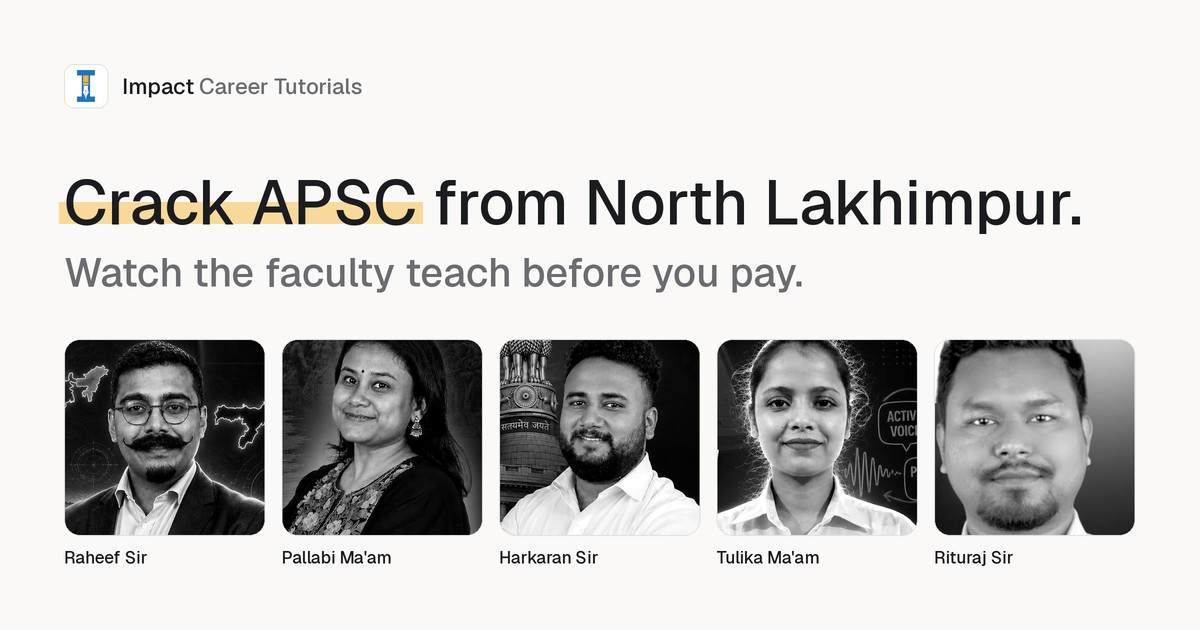
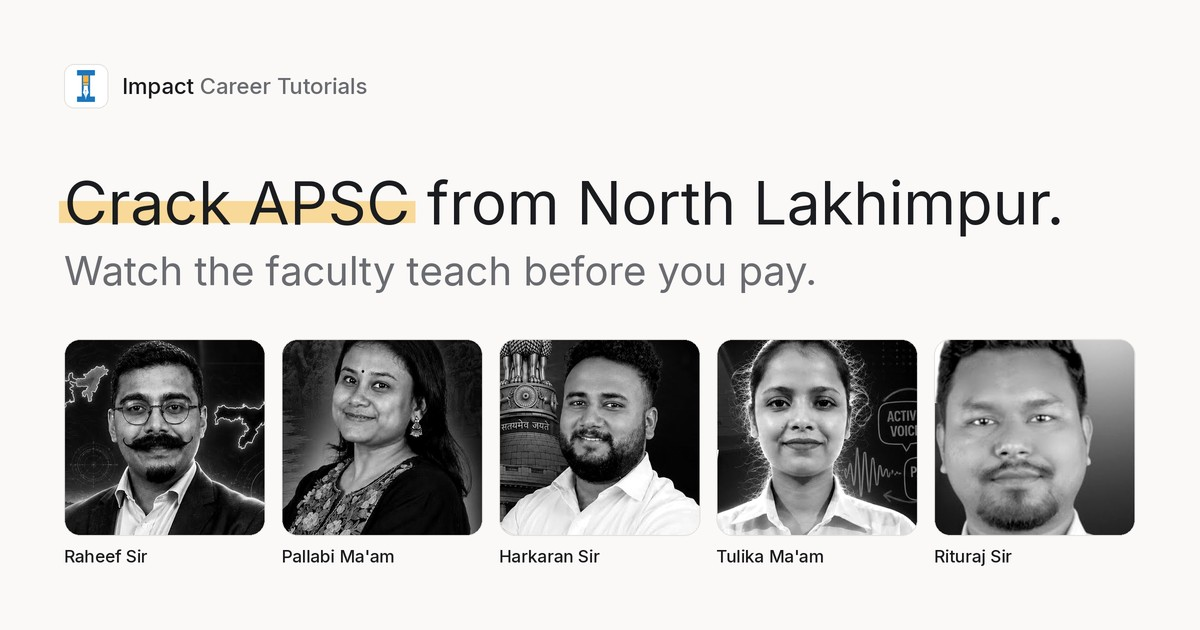
feat: adopt kobbe.io's Inter type system
Switch from Geist to Inter variable, the font kobbe.io actually ships, and
take their whole type recipe rather than just the family:

- headings at regular weight, not medium, which is most of what makes that
  site read calm
- fluid sizes: display clamp(24px, 2.5vw, 36px), lede clamp(20px, 2vw, 21.6px)
- leading 1.25, tracking -0.025em, balanced wrapping
- section labels at body size in medium grey
- accordion rows at 16px semibold, greying on hover
- smooth anchor scrolling and a stable scrollbar gutter

Adds `.type-display`, `.type-lede` and `.type-label` so the recipe lives in
one place instead of per-component arbitrary values, and regenerates the
share image in Inter to match.

Adds docs/CHECKPOINT.md: what this build contains, what was verified, and
everything still to check before launch.

Claude-Session: https://claude.ai/code/session_01YWSDFe7BPCVXSdaQppZjKw

diff --git a/app/globals.css b/app/globals.css
@@ -5,7 +5,7 @@
 /*
  * ICT design system.
  *
- * Register: calm editorial, after kobbe.io. Near-white ground, one grotesk,
+ * Register: calm editorial, after kobbe.io. Near-white ground, Inter only,
  * two-tone paragraphs instead of shouting headlines, hairlines instead of
  * boxes, and colour spent only where it carries meaning.
  *
@@ -111,14 +111,14 @@
 
   html {
     -webkit-tap-highlight-color: transparent;
-    text-rendering: optimizeLegibility;
+    scroll-behavior: smooth;
+    scrollbar-gutter: stable;
   }
 
   body {
     background-color: var(--background);
     color: var(--foreground);
-    font-family: var(--font-sans), ui-sans-serif, system-ui, sans-serif;
-    font-feature-settings: "ss01", "cv11";
+    font-family: var(--font-sans), system-ui, -apple-system, "Segoe UI", Roboto, sans-serif;
   }
 
   .font-as {
@@ -168,10 +168,10 @@
 @layer components {
   .mark {
     background-image: linear-gradient(
-      transparent 50%,
-      color-mix(in oklch, var(--highlight) 62%, transparent) 50%,
-      color-mix(in oklch, var(--highlight) 62%, transparent) 84%,
-      transparent 84%
+      transparent 46%,
+      color-mix(in oklch, var(--highlight) 62%, transparent) 46%,
+      color-mix(in oklch, var(--highlight) 62%, transparent) 82%,
+      transparent 82%
     );
     background-repeat: no-repeat;
     background-size: 100% 100%;
@@ -186,6 +186,35 @@
   .enter {
     animation: enter-blur 0.8s cubic-bezier(0.16, 1, 0.3, 1) backwards;
     animation-delay: var(--enter-delay, 0ms);
+  }
+
+  /*
+   * Kobbe's type recipe, lifted from their stylesheet: regular weight,
+   * tracking -0.025em, leading 1.25, fluid size, balanced wrapping.
+   *   display  hero and closing CTA   clamp(24px, 2.5vw, 36px)
+   *   lede     section openers        clamp(20px, 2vw, 21.6px)
+   */
+  .type-display {
+    font-size: clamp(1.5rem, 2.5vw, 2.25rem);
+    font-weight: 400;
+    line-height: 1.25;
+    letter-spacing: -0.025em;
+    text-wrap: balance;
+  }
+
+  .type-lede {
+    font-size: clamp(1.25rem, 2vw, 1.35rem);
+    font-weight: 400;
+    line-height: 1.25;
+    letter-spacing: -0.025em;
+    text-wrap: balance;
+  }
+
+  /* the quiet label above a lede: body size, medium, grey */
+  .type-label {
+    font-size: 1rem;
+    font-weight: 500;
+    color: var(--muted-foreground);
   }
 
   /* hairline list row, kobbe's "every feature" pattern */

diff --git a/components/marketing/courses.tsx b/components/marketing/courses.tsx
@@ -155,7 +155,7 @@ export function Courses() {
         <article className="flex h-full flex-col rounded-card border border-border bg-card p-6 shadow-frame md:p-8">
           <header className="flex items-start justify-between gap-4">
             <div>
-              <h3 className="text-[1.75rem] leading-tight font-medium tracking-[-0.02em]">{apsc.exam}</h3>
+              <h3 className="type-display">{apsc.exam}</h3>
               <p className="mt-1 text-muted-foreground">
                 {apsc.full}. {apsc.covers}.
               </p>
@@ -192,7 +192,7 @@ export function Courses() {
             >
               <header className="flex items-start justify-between gap-4">
                 <div>
-                  <h3 className="text-xl leading-tight font-medium tracking-[-0.015em]">{course.exam}</h3>
+                  <h3 className="type-lede">{course.exam}</h3>
                   <p className="mt-1 text-sm text-muted-foreground">{course.covers}.</p>
                 </div>
                 <span className="shrink-0 rounded-control bg-secondary px-2.5 py-1 text-sm">

diff --git a/components/ui/section.tsx b/components/ui/section.tsx
@@ -51,16 +51,12 @@ function Lede({
   size?: "md" | "lg" | "xl"
   className?: string
 }) {
-  const type = {
-    md: "text-[1.1875rem] leading-[1.42] md:text-[1.3125rem]",
-    lg: "text-[1.5rem] leading-[1.3] md:text-[1.875rem] md:leading-[1.28]",
-    xl: "text-[1.875rem] leading-[1.2] md:text-[2.5rem] md:leading-[1.18]",
-  }[size]
+  const type = { md: "type-lede", lg: "type-display", xl: "type-display" }[size]
 
   return (
-    <div className={cn("max-w-[42rem]", size === "xl" && "max-w-[54rem]", className)}>
-      {label ? <p className="mb-3 text-sm text-muted-foreground">{label}</p> : null}
-      <Heading className={cn("font-medium tracking-[-0.018em] text-balance", type)}>
+    <div className={cn("max-w-[44rem]", size !== "md" && "max-w-[56rem]", className)}>
+      {label ? <p className="type-label mb-4">{label}</p> : null}
+      <Heading className={type}>
         <span className="text-foreground">{claim}</span>
         {rest ? <span className="text-muted-foreground"> {rest}</span> : null}
         {link ? (

diff --git a/components/marketing/fees.tsx b/components/marketing/fees.tsx
@@ -18,7 +18,7 @@ export function Fees() {
     <Section id="fees">
       <div className="grid gap-4 lg:grid-cols-[1.15fr_0.85fr]">
         <Reveal className="rounded-card bg-surface p-7 md:p-10">
-          <h2 className="max-w-[34rem] text-[1.1875rem] leading-[1.42] font-medium tracking-[-0.018em] text-balance md:text-[1.3125rem]">
+          <h2 className="type-lede max-w-[34rem]">
             <span className="text-foreground">Fees.</span>
             <span className="text-muted-foreground">
               {" "}
@@ -44,7 +44,7 @@ export function Fees() {
         </Reveal>
 
         <Reveal delay={0.08} className="flex flex-col rounded-card bg-surface p-7 md:p-10">
-          <p className="text-sm text-muted-foreground">Pick a course</p>
+          <p className="type-label">Pick a course</p>
           <ul className="mt-4">
             {courses.map((course) => (
               <li key={course.slug}>

diff --git a/components/marketing/hero.tsx b/components/marketing/hero.tsx
@@ -72,7 +72,7 @@ export function Hero() {
         </a>
 
         <h1
-          className="enter mt-7 max-w-[56rem] text-[1.9rem] leading-[1.16] font-medium tracking-[-0.025em] text-balance sm:text-[2.35rem] lg:text-[2.625rem] lg:leading-[1.14]"
+          className="enter type-display mt-7 max-w-[64rem]"
           style={delay(80)}
         >
           <span className="text-foreground">
@@ -100,7 +100,7 @@ export function Hero() {
       {/* ---- the people ---- */}
       <div className="container-page mt-14 md:mt-16">
         <div className="enter flex items-baseline justify-between gap-4" style={delay(300)}>
-          <p className="text-sm text-muted-foreground">The teachers you will sit in front of</p>
+          <p className="type-label">The teachers you will sit in front of</p>
           <a
             href={links.youtube}
             target="_blank"

diff --git a/components/ui/accordion.tsx b/components/ui/accordion.tsx
@@ -39,8 +39,8 @@ function AccordionTrigger({
       <AccordionPrimitive.Trigger
         data-slot="accordion-trigger"
         className={cn(
-          "group/trigger flex flex-1 items-center justify-between gap-6 py-4 text-left text-[0.9875rem] font-medium transition-colors outline-none select-none md:py-5 md:text-[1.0625rem]",
-          "hover:text-foreground focus-visible:outline-2 focus-visible:outline-offset-2 focus-visible:outline-ring",
+          "group/trigger flex flex-1 items-center justify-between gap-6 py-4 text-left text-base font-semibold text-foreground outline-none select-none",
+          "transition-colors duration-300 ease-[cubic-bezier(0.22,1,0.36,1)] hover:text-muted-foreground focus-visible:outline-2 focus-visible:outline-offset-2 focus-visible:outline-ring",
           className
         )}
         {...props}

diff --git a/app/layout.tsx b/app/layout.tsx
@@ -1,14 +1,15 @@
 import type { Metadata, Viewport } from "next"
-import { Geist, Noto_Sans_Bengali } from "next/font/google"
+import { Inter, Noto_Sans_Bengali } from "next/font/google"
 
 import "./globals.css"
 import { brand, contact, links, place } from "@/lib/brand"
 import { indexable, siteUrl } from "@/lib/site"
 import { cn } from "@/lib/utils"
 
-/* One family, the way kobbe.io does it. Hierarchy comes from weight and tone,
-   not from mixing typefaces. */
-const sans = Geist({
+/* Inter, the variable cut kobbe.io ships. One family: hierarchy comes from
+   tone and size, and headings stay at regular weight, which is most of what
+   makes that site read so calm. */
+const sans = Inter({
   subsets: ["latin"],
   variable: "--font-sans",
   display: "swap",

diff --git a/components/marketing/final-cta.tsx b/components/marketing/final-cta.tsx
@@ -30,7 +30,7 @@ export function FinalCta() {
     <section className="py-20 md:py-28">
       <div className="container-page">
         <Reveal className="flex flex-col gap-8 border-t border-border pt-14 md:flex-row md:items-end md:justify-between md:pt-16">
-          <h2 className="max-w-[40rem] text-[1.875rem] leading-[1.18] font-medium tracking-[-0.025em] text-balance md:text-[2.5rem]">
+          <h2 className="type-display max-w-[42rem]">
             <span className="text-foreground">{claim}</span>
             <span className="block text-muted-foreground">
               Sit in on a class this week. It costs nothing.

diff --git a/components/marketing/lead-form.tsx b/components/marketing/lead-form.tsx
@@ -81,7 +81,7 @@ export function LeadForm() {
         {state.status === "ok" ? (
           <motion.div key="done" {...swap} role="status" aria-live="polite">
             <IconCircleCheckFilled size={28} className="text-verified" aria-hidden />
-            <p className="mt-4 text-[1.3125rem] leading-snug font-medium tracking-[-0.015em]">
+            <p className="type-lede mt-4">
               Thank you, {state.name.split(" ")[0]}.
               <span className="text-muted-foreground">
                 {" "}

diff --git a/components/marketing/enquire.tsx b/components/marketing/enquire.tsx
@@ -15,7 +15,7 @@ export function Enquire() {
     <Section id="enquire">
       <div className="grid gap-12 lg:grid-cols-[0.85fr_1.15fr] lg:gap-16">
         <Reveal>
-          <h2 className="max-w-[30rem] text-[1.5rem] leading-[1.3] font-medium tracking-[-0.02em] text-balance md:text-[1.875rem]">
+          <h2 className="type-display max-w-[32rem]">
             <span className="text-foreground">{offer.cta}.</span>
             <span className="text-muted-foreground">
               {" "}

diff --git a/components/marketing/faq.tsx b/components/marketing/faq.tsx
@@ -18,7 +18,7 @@ export function Faq() {
     <Section id="questions">
       <div className="grid gap-10 lg:grid-cols-[0.8fr_1.2fr] lg:gap-16">
         <Reveal>
-          <h2 className="max-w-[28rem] text-[1.1875rem] leading-[1.42] font-medium tracking-[-0.018em] text-balance md:text-[1.3125rem]">
+          <h2 className="type-lede max-w-[28rem]">
             <span className="text-foreground">Questions.</span>
             <span className="text-muted-foreground">
               {" "}

diff --git a/docs/CHECKPOINT.md b/docs/CHECKPOINT.md
@@ -1,0 +1,128 @@
+# Checkpoint: pitch build 1
+
+**Date** 11 Sep 2026
+**Live** https://impact-coaching-center.vercel.app (noindex, not ICT's domain)
+**Tag** `checkpoint-01-pitch`
+
+A one page site for Impact Career Tutorials, built to pitch. Light, calm and
+editorial after kobbe.io, typeset in Inter, with every name, face, batch and
+number taken from ICT's own public channels.
+
+## What is in it
+
+- Hero: two tone paragraph, amber highlighter, the five real teachers
+- Verifiable numbers, each linking to the page that proves it
+- Results: two APSC CCE 2022 officers plus real Play Store reviews in a rail
+- Courses: three cards with real batches, sample classes and per course CTAs
+- Fees: what one fee covers, and an honest "ask for the figure" path
+- Free classes, FAQ, joining steps, lead form, closing CTA
+- Lead capture through a server action, then a prefilled WhatsApp handoff
+- Mobile call and book bar
+
+## Verified at this checkpoint
+
+- `bun run lint`, `bun run typecheck`, `bun run build` all clean
+- Desktop (1440) and mobile (390) screenshots reviewed
+- Lead form tested on the live deployment: validation, success, WhatsApp text
+- Share image loads from the live URL, 200 and `image/jpeg`
+- `noindex` plus `Disallow: /` confirmed live
+- Zero em dashes, one `<h1>`, all section anchors resolve
+
+---
+
+# What still needs checking
+
+## A. Owner sign off, content truth
+
+Everything here is on the page but not published by ICT. See `toConfirm` in
+`lib/brand.ts`. Anything the owner rejects must come off before launch.
+
+- [ ] **Free demo class.** The whole page converts on this offer. It is our
+      proposal. If ICT does not run demo classes, change `offer.cta` in
+      `lib/brand.ts` and every button follows.
+- [ ] **Hostel.** Claimed in ICT's Feb 2025 reel, repeated in the fees list
+      and the FAQ. Confirm it still exists.
+- [ ] **20 Prelims and 20 Mains mock tests.** Same reel, same age.
+- [ ] **Mentorship until selection.** Same reel.
+- [ ] **"We reply the same day"** in the joining steps. Only promise this if
+      ICT can keep it.
+- [ ] **Pallabi or Pallavi Neog.** ICT's own thumbnails spell it both ways.
+- [ ] **Faculty titles.** Rituraj Sir is shown as "B.Tech, former Bank PO"
+      from his own thumbnail. Earlier notes said NIT Silchar. Confirm.
+- [ ] **Raheef Sir's credentials.** "NIT Silchar, MS Germany" is self
+      reported on Instagram and is currently not shown on the page.
+
+## B. Content gaps
+
+- [ ] **Fees per course.** Set `courses[].fee` and the cards and the fees
+      panel switch from "Get the fee" to the number automatically.
+- [ ] **Real photographs of the centre.** There is not one image of the
+      building, the classroom or the library. For a walk in business this is
+      the biggest remaining trust gap.
+- [ ] **Instagram student testimonials.** ICT's strongest proof. Needs a
+      logged in export.
+- [ ] **Batch timings.** Only VICTOR8 (8 to 10 AM) and NAKSHATRA (night) are
+      known. Day batch timings are missing.
+- [ ] **ASSIST scholarship.** Named in the fees panel and FAQ. Get the next
+      test date and what it covers.
+
+## C. Conversion
+
+- [ ] **`LEAD_WEBHOOK_URL` is not set.** Leads currently reach the Vercel
+      function log only. Point it at a Google Sheet, Zapier or Slack before
+      showing the owner the form.
+- [ ] Test that a submitted lead actually arrives wherever it is pointed.
+- [ ] Confirm both phone numbers ring, and that WhatsApp is on
+      +91 86380 61175.
+- [ ] Decide who answers enquiries, and how fast.
+- [ ] Add click tracking so enquiries can be attributed to a course.
+- [ ] One fake lead from testing sits in the logs: "Test Visitor",
+      98765 43210.
+
+## D. Technical and launch
+
+- [ ] **Domain.** `impactcareertutorials.in` had an expired certificate and
+      the bare domain did not resolve. Fix before pointing anything at it.
+- [ ] At launch set `NEXT_PUBLIC_SITE_URL` and `SITE_INDEXABLE=true` in
+      Vercel, otherwise the site stays invisible to Google by design.
+- [ ] Submit the sitemap to Google Search Console.
+- [ ] **Create a Google Business Profile.** None was found. For a local
+      coaching centre this is usually the largest single source of enquiries,
+      larger than the website.
+- [ ] Check the link preview renders in WhatsApp, the channel this will
+      actually be shared through.
+- [ ] Confirm the deployment is production on Vercel, so the URL is stable.
+
+## E. Quality passes not yet run
+
+- [ ] **Performance on a low end Android**, throttled. The likely costs are
+      the five hero portraits and the stacked backdrop blur at the screen
+      edges.
+- [ ] **Lighthouse**, all four categories.
+- [ ] **Keyboard pass**: every link and control reachable, visible focus, the
+      mobile menu traps and restores focus, Escape closes it.
+- [ ] **Screen reader pass**, especially the counting numbers, the testimonial
+      rail and the form errors.
+- [ ] **Contrast audit.** Grey on near white is the risk, particularly the
+      muted second half of every lede.
+- [ ] **Real device check** on a mid range Android and an iPhone. Safari has
+      not been tested at all.
+- [ ] **Reduced motion**: confirm the page is still readable and complete.
+- [ ] Test with a slow connection and with images blocked.
+
+## F. Housekeeping
+
+- [ ] Remove unused dependencies: `lenis`, `next-themes`, and `shadcn` as a
+      runtime dependency.
+- [ ] Remove nine unused files in `public/` (four brand images, five
+      thumbnails).
+- [ ] The Assamese font is loaded but nothing uses it. Either use it or drop
+      it.
+- [ ] `docs/research-notes.ts` is kept for provenance and compiles with the
+      project. Move it out of the TypeScript build if it becomes noise.
+
+## G. Next, once the owner is in
+
+- [ ] Course detail pages for search: "APSC coaching in North Lakhimpur".
+- [ ] An Assamese version, or at least the hero and the CTAs.
+- [ ] A results page, once real student material exists.
